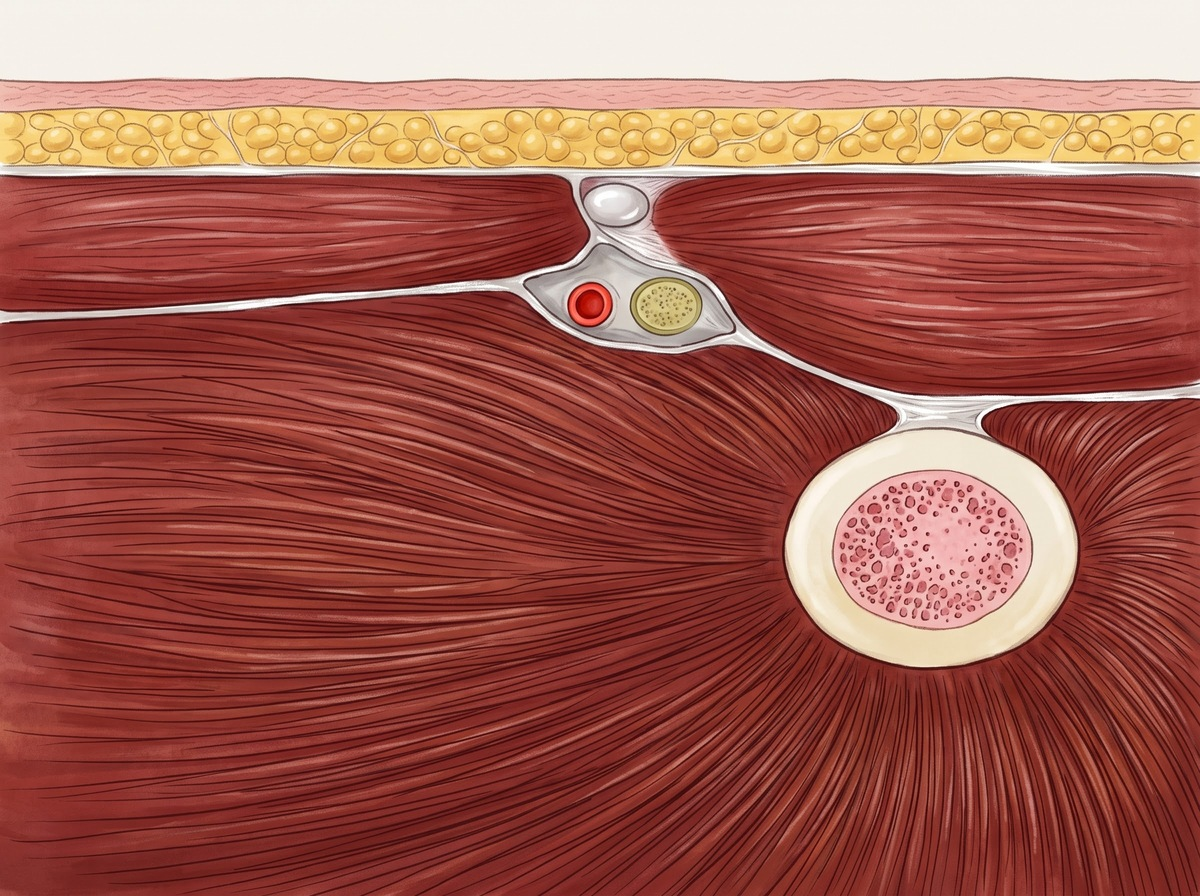
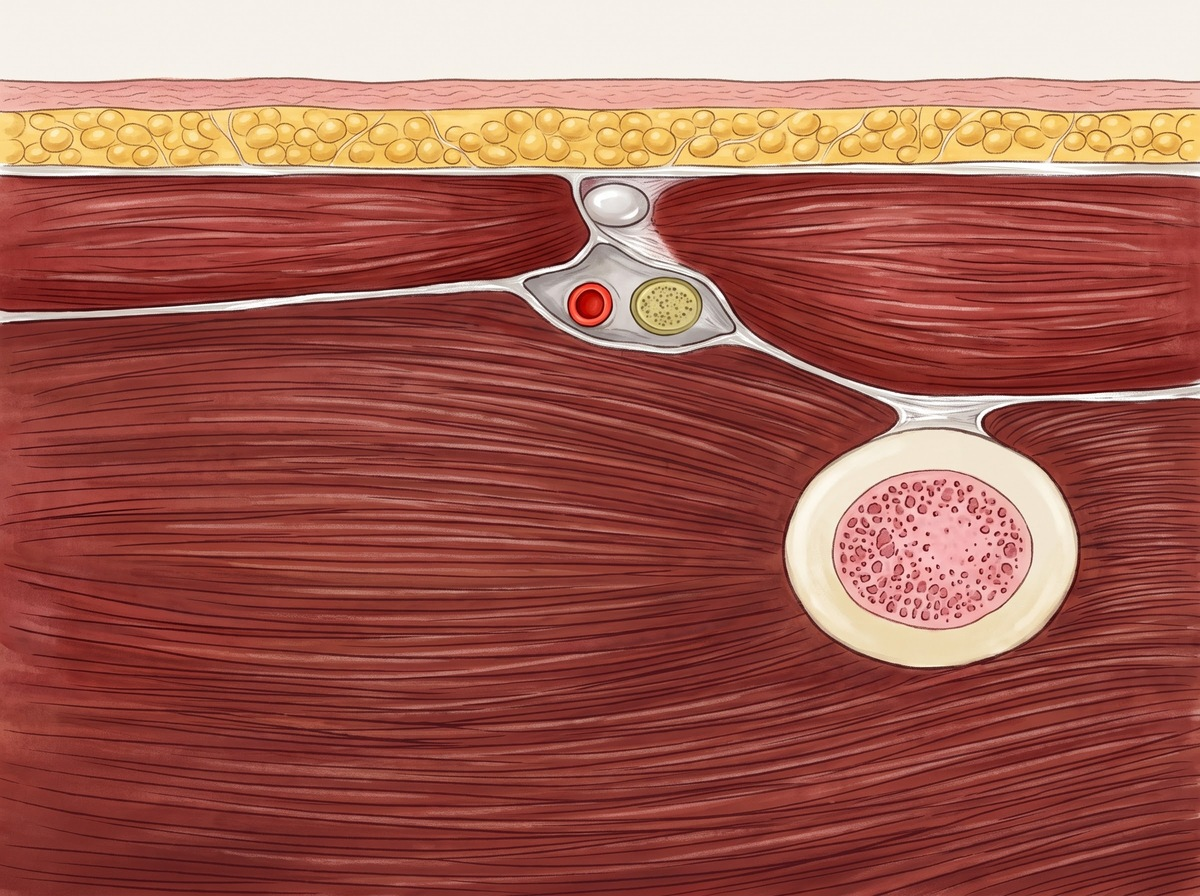
Tibial pair, transgluteal pair, TAP positioning and ulnar section on the owner's repaired paintings (review drafts)

diff --git a/visuals/tap_patient_position/draw.py b/visuals/tap_patient_position/draw.py
@@ -24,6 +24,10 @@ the mid-axillary line; the umbilicus toward the midline.
 Millimetres from the probe centre (x toward the feet = image right, y toward
 the back = image down) at 3.2 px/mm.
 
+Painted version (2026-10-15): the costal margin is under the gown and the hand
+covers the iliac crest, so those are not labelled; a dashed mid-axillary line
+is drawn through the probe face instead (record: mid-axillary line).
+
 Run: python3 visuals/tap_patient_position/draw.py
 """
 
@@ -87,8 +91,7 @@ def build() -> str:
              f"{fmt(q(110, 30)[0])},{fmt(q(0, 30)[1])} {fmt(q(160, 130)[0])},1260")
     tubing = f"M{fmt(nh[0])},{fmt(nh[1])} C{fmt(nh[0] - 20)},{fmt(nh[1] - 80)} {fmt(nh[0] - 150)},{fmt(nh[1] - 120)} {fmt(nh[0] - 330)},-40"
     labels = [
-        Label(["Costal margin"], anchor=(40, 470), leader=[(330, 488), c((-118, -50))], target_id="costal"),
-        Label(["Iliac crest"], anchor=(1260, 360), leader=[(1300, 380), c((96, -46))], target_id="iliac"),
+        Label(["Mid-axillary line"], anchor=(40, 760), leader=[(420, 744), (520, c((0, 0))[1])], target_id="mal"),
         Label(["Linear probe"], anchor=(980, 860), leader=[(1000, 820), (p1[0] - 6, p1[1] - 20)], target_id="probe"),
         Label(["Block needle"], anchor=(420, 300), leader=[(640, 320), ((ne[0] + nh[0]) / 2, (ne[1] + nh[1]) / 2)], target_id="needle"),
     ]
@@ -121,6 +124,11 @@ def build() -> str:
   <path d="{cable}" fill="none" stroke="#3E454C" stroke-width="14" stroke-linecap="round"/>
   <path id="probe-handle" d="{handle}" fill="url(#probe-body)" stroke="#7D868F" stroke-width="3"/>
   <rect id="probe" x="{fmt(p0[0])}" y="{fmt(p0[1])}" width="{fmt(p1[0] - p0[0])}" height="{fmt(p1[1] - p0[1])}" rx="12" fill="url(#probe-body)" stroke="#7D868F" stroke-width="3"/>
+</g>
+
+<g class="marking">
+  <line id="mal" x1="{fmt(c((-125, 0))[0])}" y1="{fmt(c((0, 0))[1])}" x2="{fmt(p0[0] - 14)}" y2="{fmt(c((0, 0))[1])}" stroke="#F6F7F9" stroke-width="10" stroke-dasharray="20 12" stroke-linecap="round" opacity="0.9"/>
+  <line x1="{fmt(c((-125, 0))[0])}" y1="{fmt(c((0, 0))[1])}" x2="{fmt(p0[0] - 14)}" y2="{fmt(c((0, 0))[1])}" stroke="#4A2F7A" stroke-width="5" stroke-dasharray="20 12" stroke-linecap="round"/>
 </g>
 
 <g id="labels">{"".join(label.svg() for label in labels)}</g>
